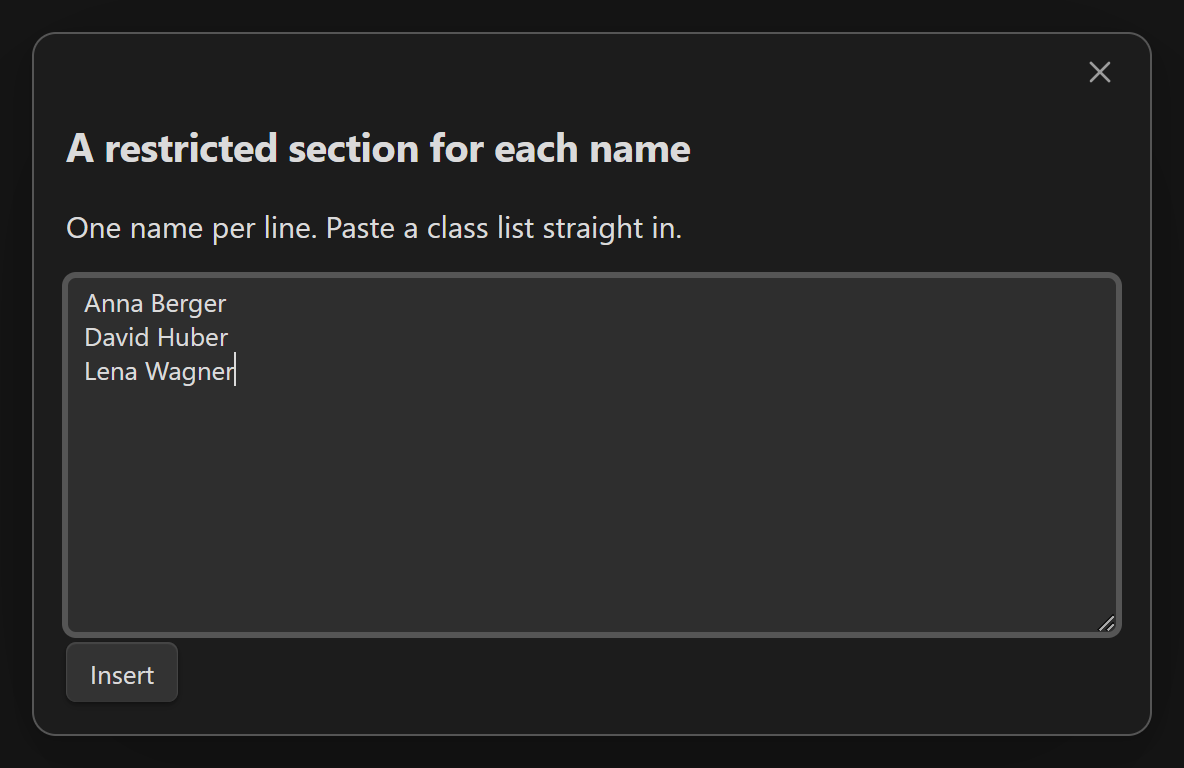
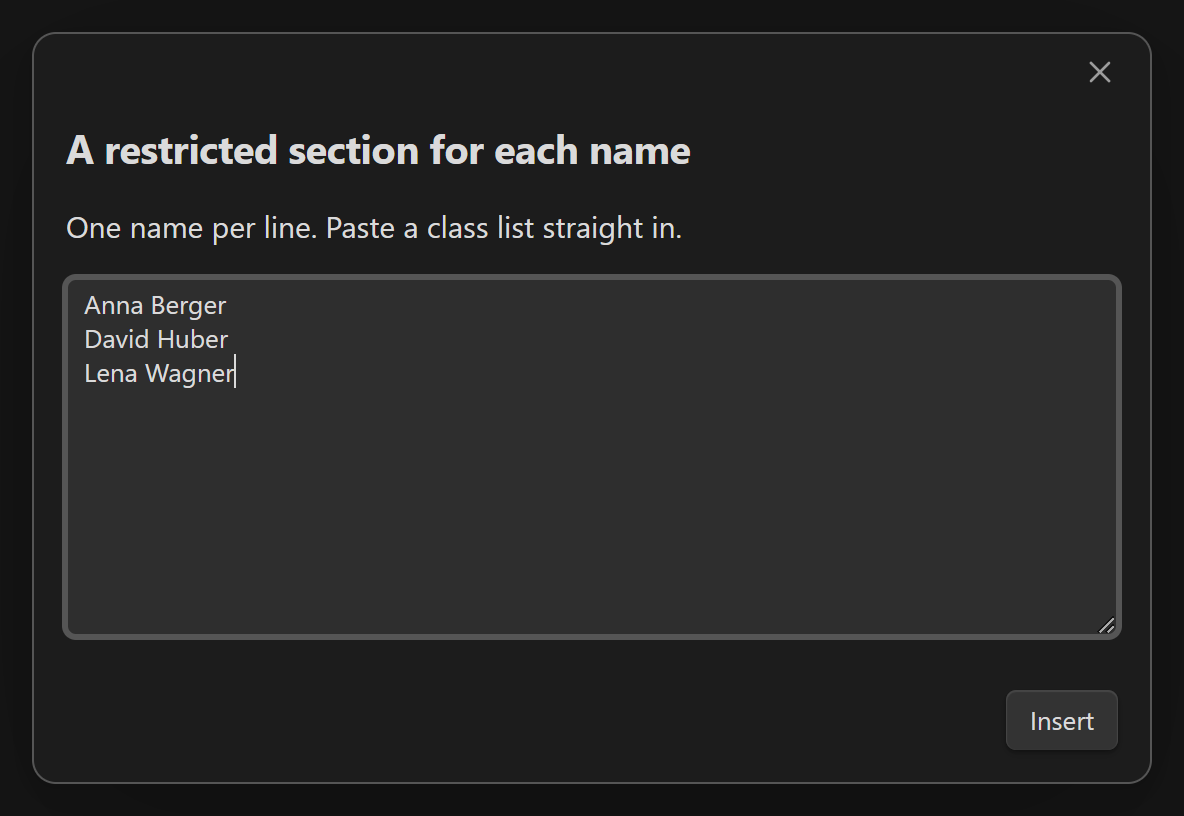
Stand a dialog's confirmation apart from the field it confirms
Both dialogs built their content as a run of elements straight into
contentEl: a heading, a field, a button, with nothing between the last
two. On screen the button sat against the lower edge of the field it
belongs to, which reads as one grown-together control rather than as type
here, then confirm - and a click aimed at the button landed in the field
often enough to be noticed.

The button now stands in a modal-button-container of its own, which is
the element Obsidian's own dialogs put their confirmation in. What
separates it from the field is therefore the spacing of the theme the
person is running, and there is no length written into this plugin for a
theme to disagree with. styles.css gains nothing.

A margin would have been one line and would have been a few pixels wrong
in every theme but the one it was written under, silently, because
nothing would ever fail. A Setting was the other candidate and brings a
name column, a description column and, in several themes, a rule above
itself - the parts of a settings tab, which a dialog asking one question
is not.

Both dialogs are laid out alike now, so that what tells them apart is the
field each carries. What they write is untouched: the same default of
three columns, the same minimum of two, Enter confirming the count and
Ctrl/Cmd+Enter the list, because Enter belongs to the list.

diff --git a/main.ts b/main.ts
@@ -1487,7 +1487,15 @@ class ColumnCountModal extends Modal {
     input.addEventListener("keydown", (event) => {
       if (event.key === "Enter") confirm();
     });
-    contentEl.createEl("button", { text: "Insert" }).addEventListener("click", confirm);
+
+    // The confirmation stands in the container Obsidian lays dialog buttons out
+    // in, rather than against the lower edge of the field. What separates the two
+    // is then the spacing of the theme in use, and there is no length written
+    // here for a theme to disagree with.
+    contentEl
+      .createEl("div", { cls: "modal-button-container" })
+      .createEl("button", { text: "Insert" })
+      .addEventListener("click", confirm);
 
     input.focus();
     input.select();
@@ -1632,7 +1640,13 @@ class NameListModal extends Modal {
     input.addEventListener("keydown", (event) => {
       if (event.key === "Enter" && (event.ctrlKey || event.metaKey)) confirm();
     });
-    contentEl.createEl("button", { text: "Insert" }).addEventListener("click", confirm);
+
+    // The confirmation in its container, as in `ColumnCountModal`: the two
+    // dialogs differ in the field they carry and in nothing else.
+    contentEl
+      .createEl("div", { cls: "modal-button-container" })
+      .createEl("button", { text: "Insert" })
+      .addEventListener("click", confirm);
 
     input.focus();
   }
